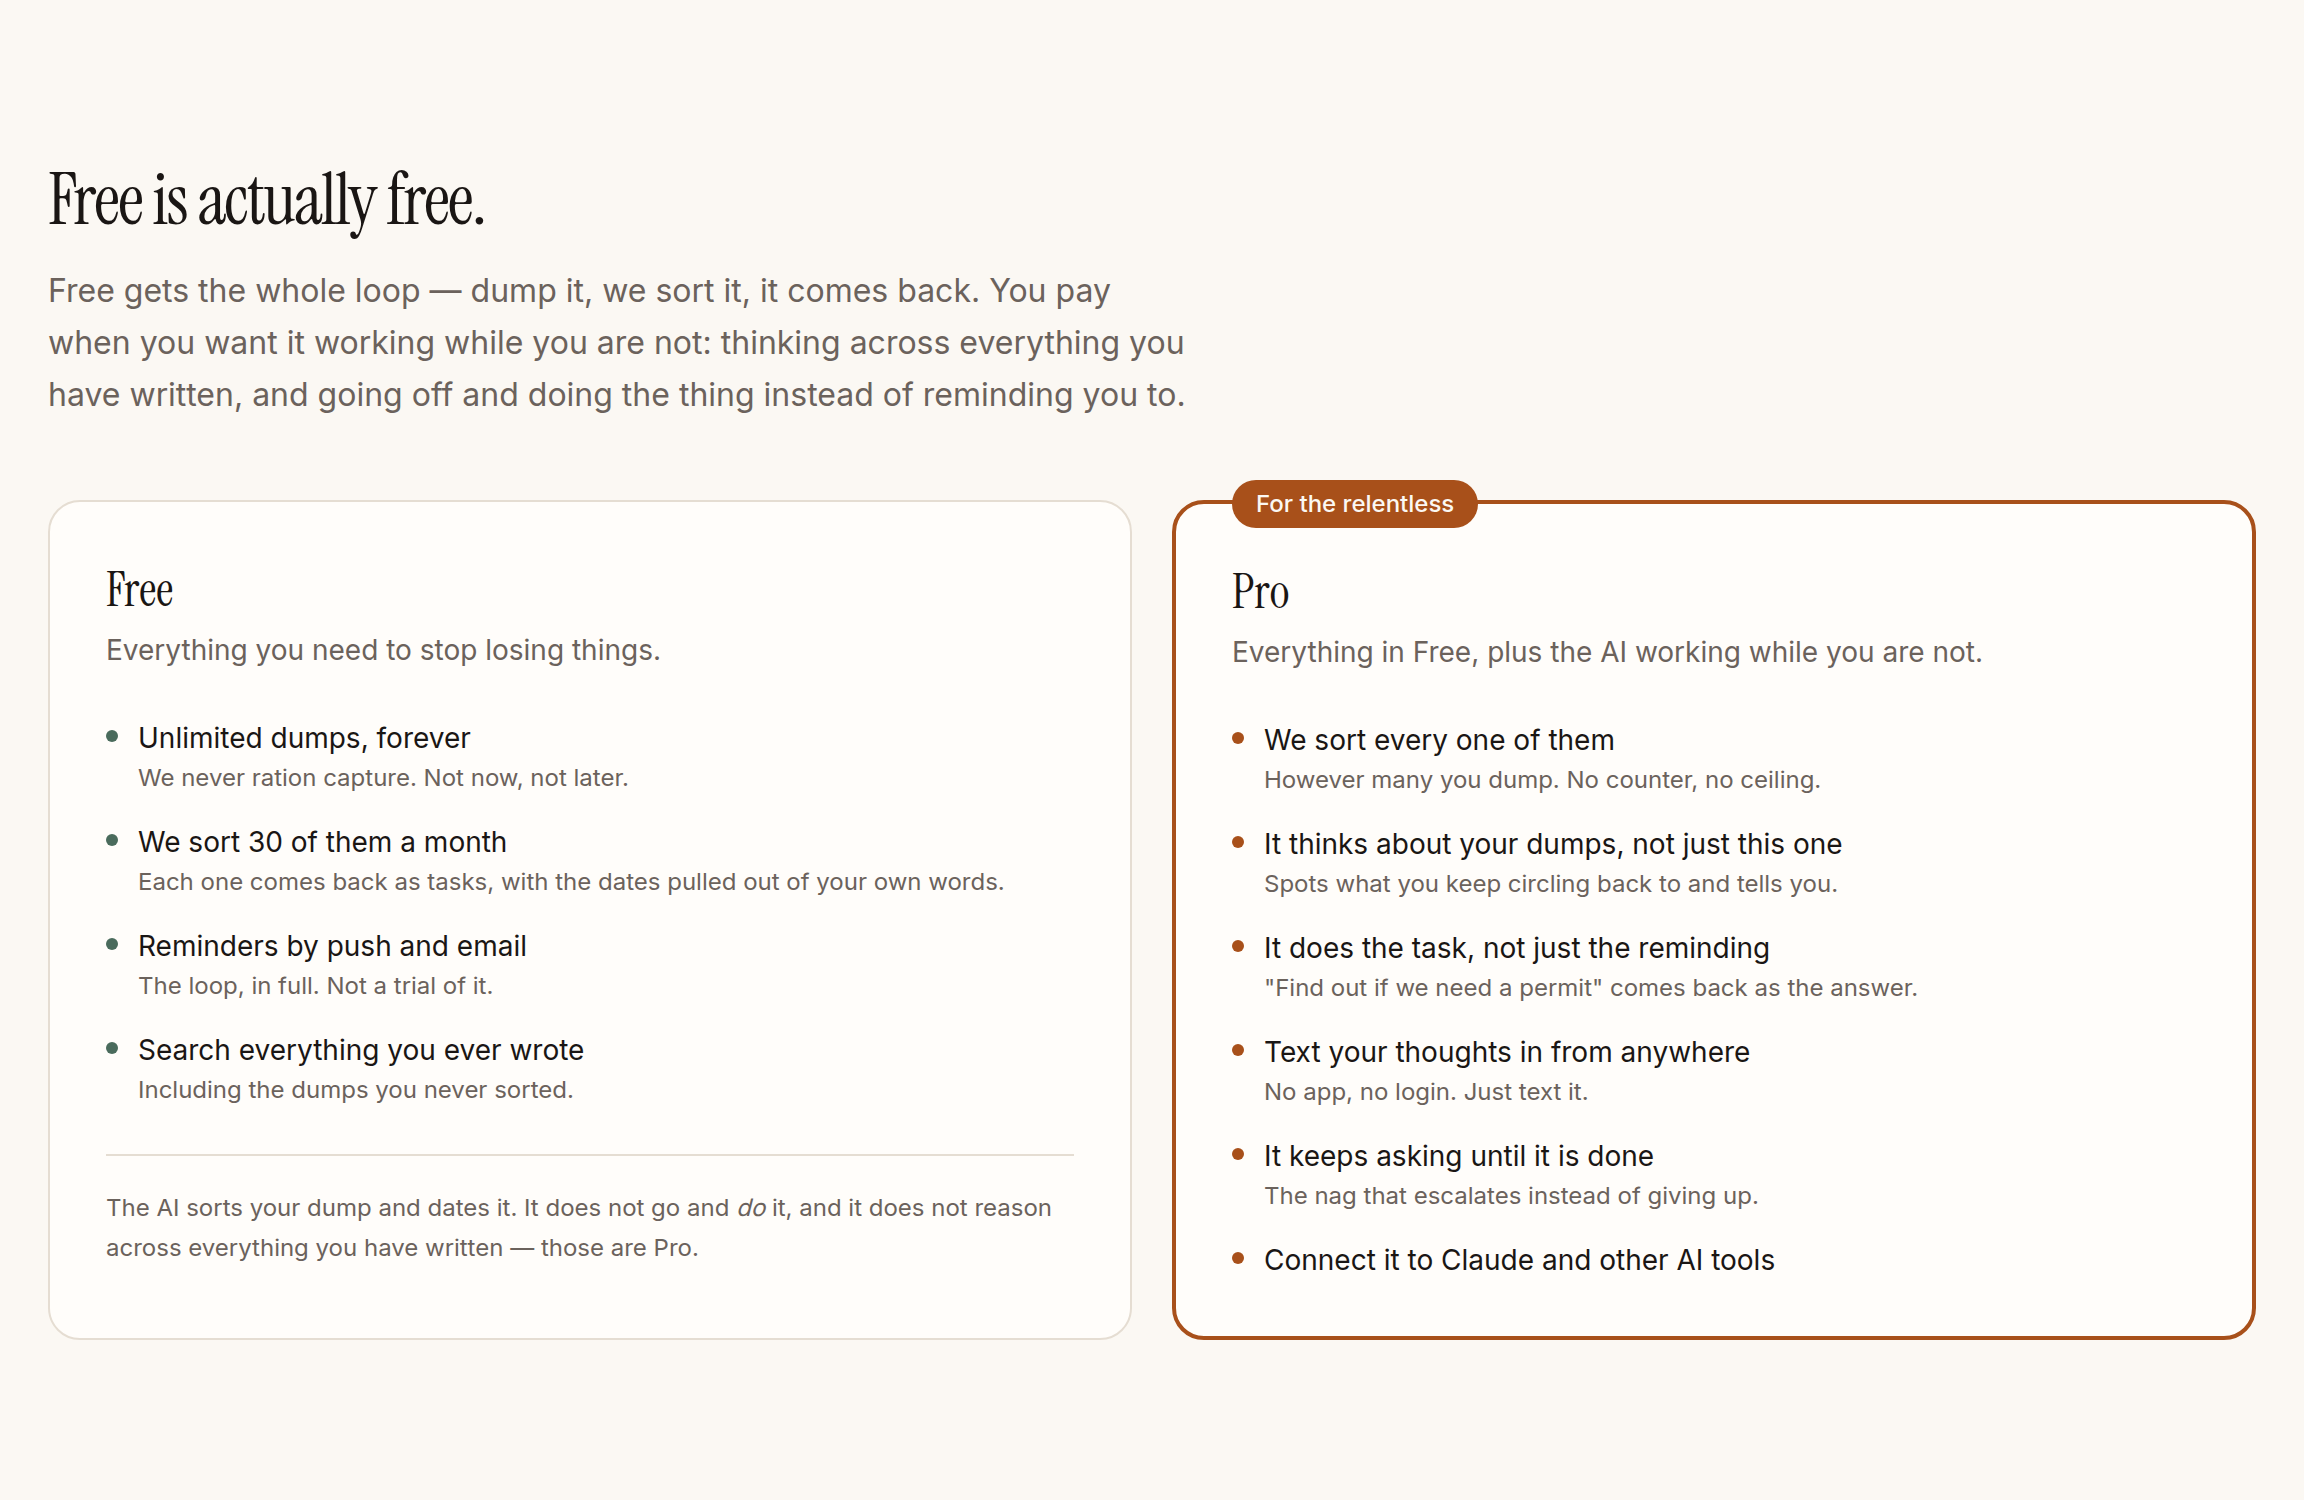
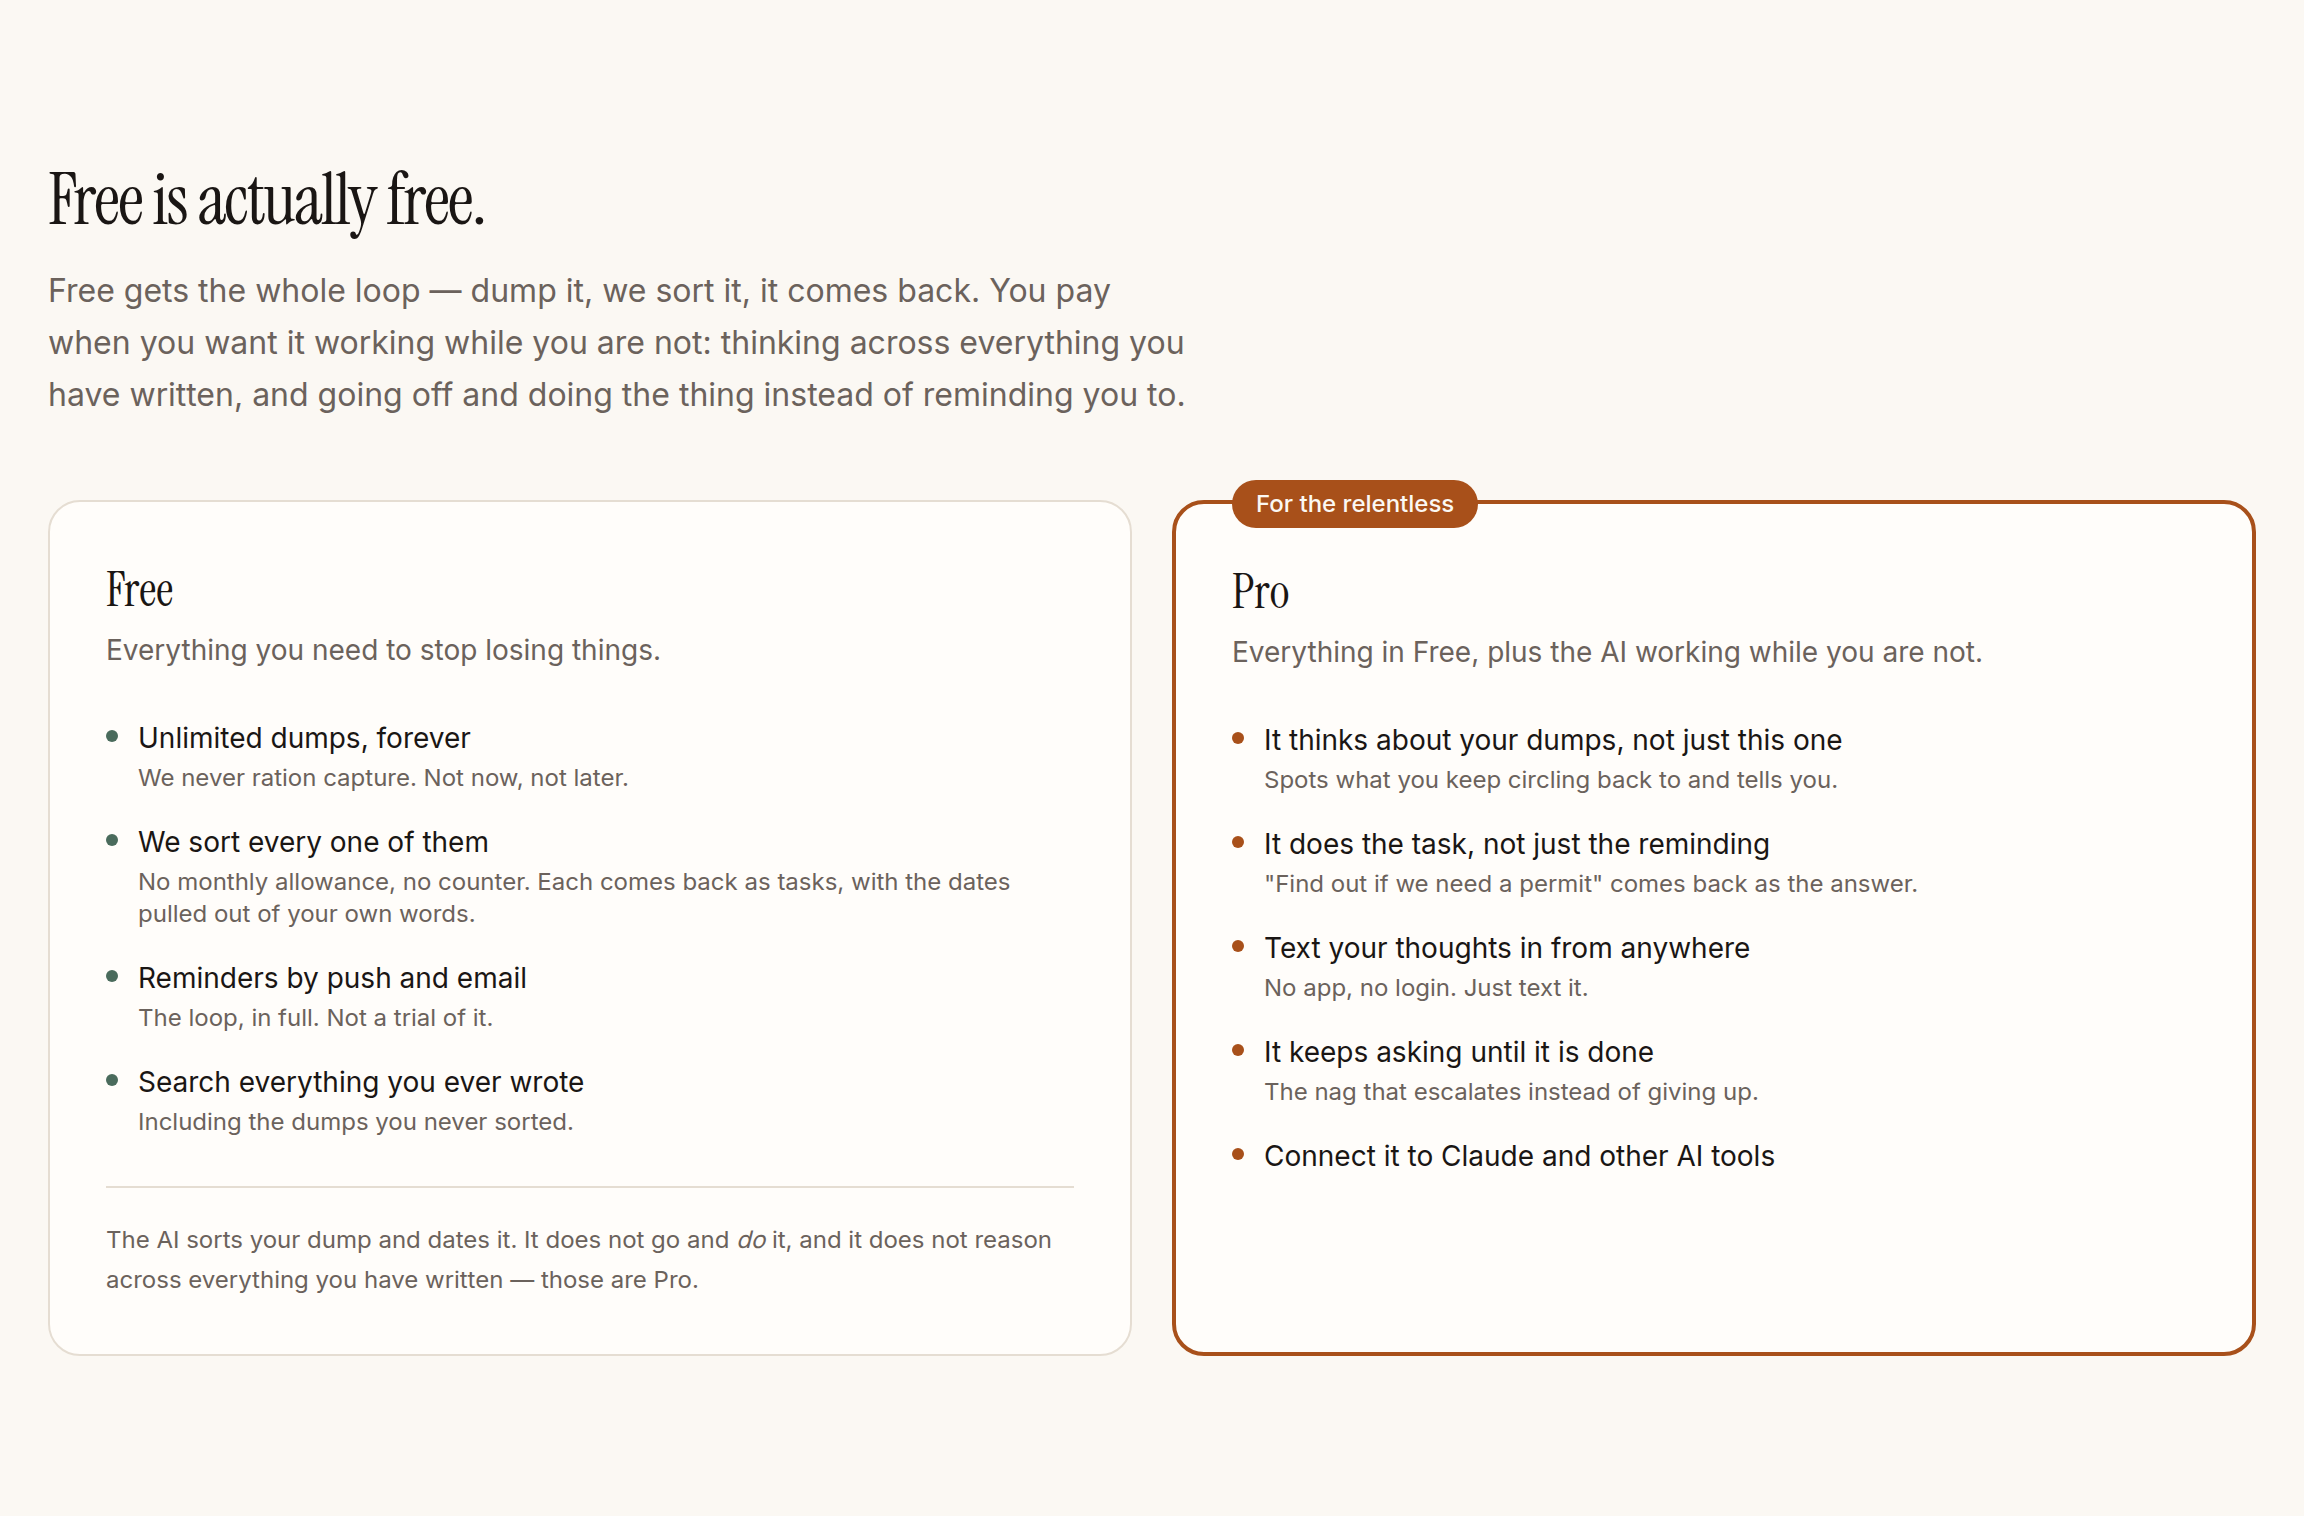
Uncap AI sorting on the free tier
Thirty was an arbitrary bar on the core experience, and a counter on the thing
the product exists to do makes it something you hesitate to use — which is the
one thing a capture tool cannot survive.

It is affordable now in a way it was not an hour ago. When extraction was the
only meter, removing it left PRO with nothing but SMS. PRO now carries
reasoning, execution, SMS, the escalating nag and MCP, so extraction no longer
has to carry monetization. It also wins a comparison that matters: getbraindump
caps AI on their free tier, so uncapped sorting is a concrete way ours is better
rather than equivalent.

Removing the count does not remove the cost, it moves where the cost can run
away. Spend tracks input size, not button presses — one pasted 50,000-word
document is a single transform costing roughly 100x a normal one. So
maxDumpChars replaces transformsPerMonth as the real control: 20k characters on
FREE, 100k on PRO. transformsPerMonth stays in the type as null on both tiers so
an abuse ceiling can be added later without a schema change; that would be fraud
control rather than monetization and the two must not be conflated.

Still owed, recorded in CLAUDE.md: a per-user rate limit on the transform
endpoint. Uncapped free AI is an obvious target for scripted abuse, and a rate
limit is the right tool for that — not a product cap.

Pro's "we sort every one of them" line is dropped, since it is no longer a
difference between the tiers.

Refs #8, #12

diff --git a/packages/types/src/index.ts b/packages/types/src/index.ts
@@ -112,10 +112,18 @@ export interface Insight {
  *
  * The AI splits three ways, and they are priced differently on purpose:
  *
- * - **Extraction** (`transformsPerMonth`) turns one dump into tasks, dates and
- *   tags. One bounded model call, ~$0.003 on Haiku. Metered but free, because a
- *   user who has never watched their own mess become a list is being asked to
- *   pay for a promise they have not seen work.
+ * - **Extraction** turns one dump into tasks, dates and tags. One bounded model
+ *   call, ~$0.003 on Haiku. **Free and uncapped.** It is the core experience,
+ *   and a counter on it makes the product something you hesitate to use — which
+ *   is the one thing a capture tool cannot survive. The competitor caps AI on
+ *   their free tier; not capping it is a concrete way ours is better rather than
+ *   equivalent. PRO no longer needs extraction to carry monetization, because
+ *   reasoning, execution, SMS and MCP now do.
+ *
+ *   What replaces the cap is `maxDumpChars`, and it matters more than the count
+ *   ever did: cost scales with *input size*, not with how many times you press
+ *   the button. One pasted 50,000-word document is a single transform costing
+ *   ~100x a normal one. Cap the input, not the usage.
  * - **Reasoning** (`aiReasoning`) is cross-dump: patterns, insights, the weekly
  *   digest. It runs on a schedule, so it costs per user whether they engage or
  *   not. PRO.
@@ -127,8 +135,16 @@ export interface Insight {
 export interface TierLimits {
   /** Null = unlimited. Capture is never the thing we ration. */
   dumpsPerMonth: number | null;
-  /** Extraction only. The taste of the product, and the conversion moment. */
+  /**
+   * Extraction runs. Null on both tiers — see the note above. Kept as a field
+   * rather than deleted so an abuse ceiling can be set without a schema change.
+   */
   transformsPerMonth: number | null;
+  /**
+   * Max characters accepted in a single dump. This is the real cost control now
+   * that the run count is uncapped, because spend tracks input size.
+   */
+  maxDumpChars: number;
   /** Cross-dump reasoning: insights, patterns, the scheduled digest. */
   aiReasoning: boolean;
   /** Agentic execution — the AI completes the task. Needs its own meter (#14). */
@@ -140,7 +156,8 @@ export interface TierLimits {
 export const TIER_LIMITS: Record<Tier, TierLimits> = {
   FREE: {
     dumpsPerMonth: null,
-    transformsPerMonth: 30,
+    transformsPerMonth: null,
+    maxDumpChars: 20_000,
     aiReasoning: false,
     taskExecution: false,
     channels: ['PUSH', 'EMAIL'],
@@ -149,6 +166,7 @@ export const TIER_LIMITS: Record<Tier, TierLimits> = {
   PRO: {
     dumpsPerMonth: null,
     transformsPerMonth: null,
+    maxDumpChars: 100_000,
     aiReasoning: true,
     taskExecution: true,
     channels: ['PUSH', 'EMAIL', 'SMS'],

diff --git a/apps/web/src/pages/LandingPage.tsx b/apps/web/src/pages/LandingPage.tsx
@@ -227,15 +227,14 @@ function FeatureList({ items, dot }: { items: Feature[]; dot: string }) {
 const FREE: Feature[] = [
   { label: 'Unlimited dumps, forever', note: 'We never ration capture. Not now, not later.' },
   {
-    label: 'We sort 30 of them a month',
-    note: 'Each one comes back as tasks, with the dates pulled out of your own words.',
+    label: 'We sort every one of them',
+    note: 'No monthly allowance, no counter. Each comes back as tasks, with the dates pulled out of your own words.',
   },
   { label: 'Reminders by push and email', note: 'The loop, in full. Not a trial of it.' },
   { label: 'Search everything you ever wrote', note: 'Including the dumps you never sorted.' },
 ];
 
 const PRO: Feature[] = [
-  { label: 'We sort every one of them', note: 'However many you dump. No counter, no ceiling.' },
   {
     label: 'It thinks about your dumps, not just this one',
     note: 'Spots what you keep circling back to and tells you.',

diff --git a/CLAUDE.md b/CLAUDE.md
@@ -21,7 +21,7 @@ Change it there, never hardcode a quota.
 | | FREE | PRO (monthly) |
 |---|---|---|
 | Dumps | unlimited | unlimited |
-| AI **extraction** (dump → tasks) | 30/month | unlimited |
+| AI **extraction** (dump → tasks) | unlimited | unlimited |
 | AI **reasoning** (insights, digest) | — | yes |
 | AI **task execution** (does the task) | — | yes |
 | Reminder channels | push, email | push, email, **SMS** |
@@ -30,10 +30,23 @@ Change it there, never hardcode a quota.
 **The AI splits three ways and they are priced differently on purpose.**
 
 *Extraction* turns one dump into tasks, dates and tags — one bounded call,
-~$0.003 on Haiku. It stays free and metered because it is the taste: a user who
-has never watched their own mess become a list is being asked to pay for a
-promise they have not seen work. getbraindump's free tier includes an AI
-allowance; a free tier with none would lose that comparison outright.
+~$0.003 on Haiku. **Free and uncapped on both tiers.** A counter on the core
+experience makes the product something you hesitate to use, which is the one
+thing a capture tool cannot survive. getbraindump caps AI on their free tier, so
+not capping it is a concrete way ours is better rather than equivalent. PRO does
+not need extraction to carry monetization now that reasoning, execution, SMS and
+MCP do.
+
+**The cap that replaced it is `maxDumpChars`, and it matters more than the count
+ever did.** Spend tracks *input size*, not button presses: one pasted
+50,000-word document is a single transform costing ~100x a normal one. 20k chars
+on FREE, 100k on PRO. `transformsPerMonth` is kept in the type as null on both
+tiers so an abuse ceiling can be set later without a schema change — that would
+be fraud control, not monetization, and the two must not be conflated.
+
+**Still owed:** a per-user rate limit on the transform endpoint. Uncapped free AI
+is an obvious target for scripted abuse, and a rate limit is the right tool for
+that — not a product cap.
 
 *Reasoning* and *execution* are PRO. Both are the product working while the user
 is not looking, which is what recurring money should buy, and both cost per user
